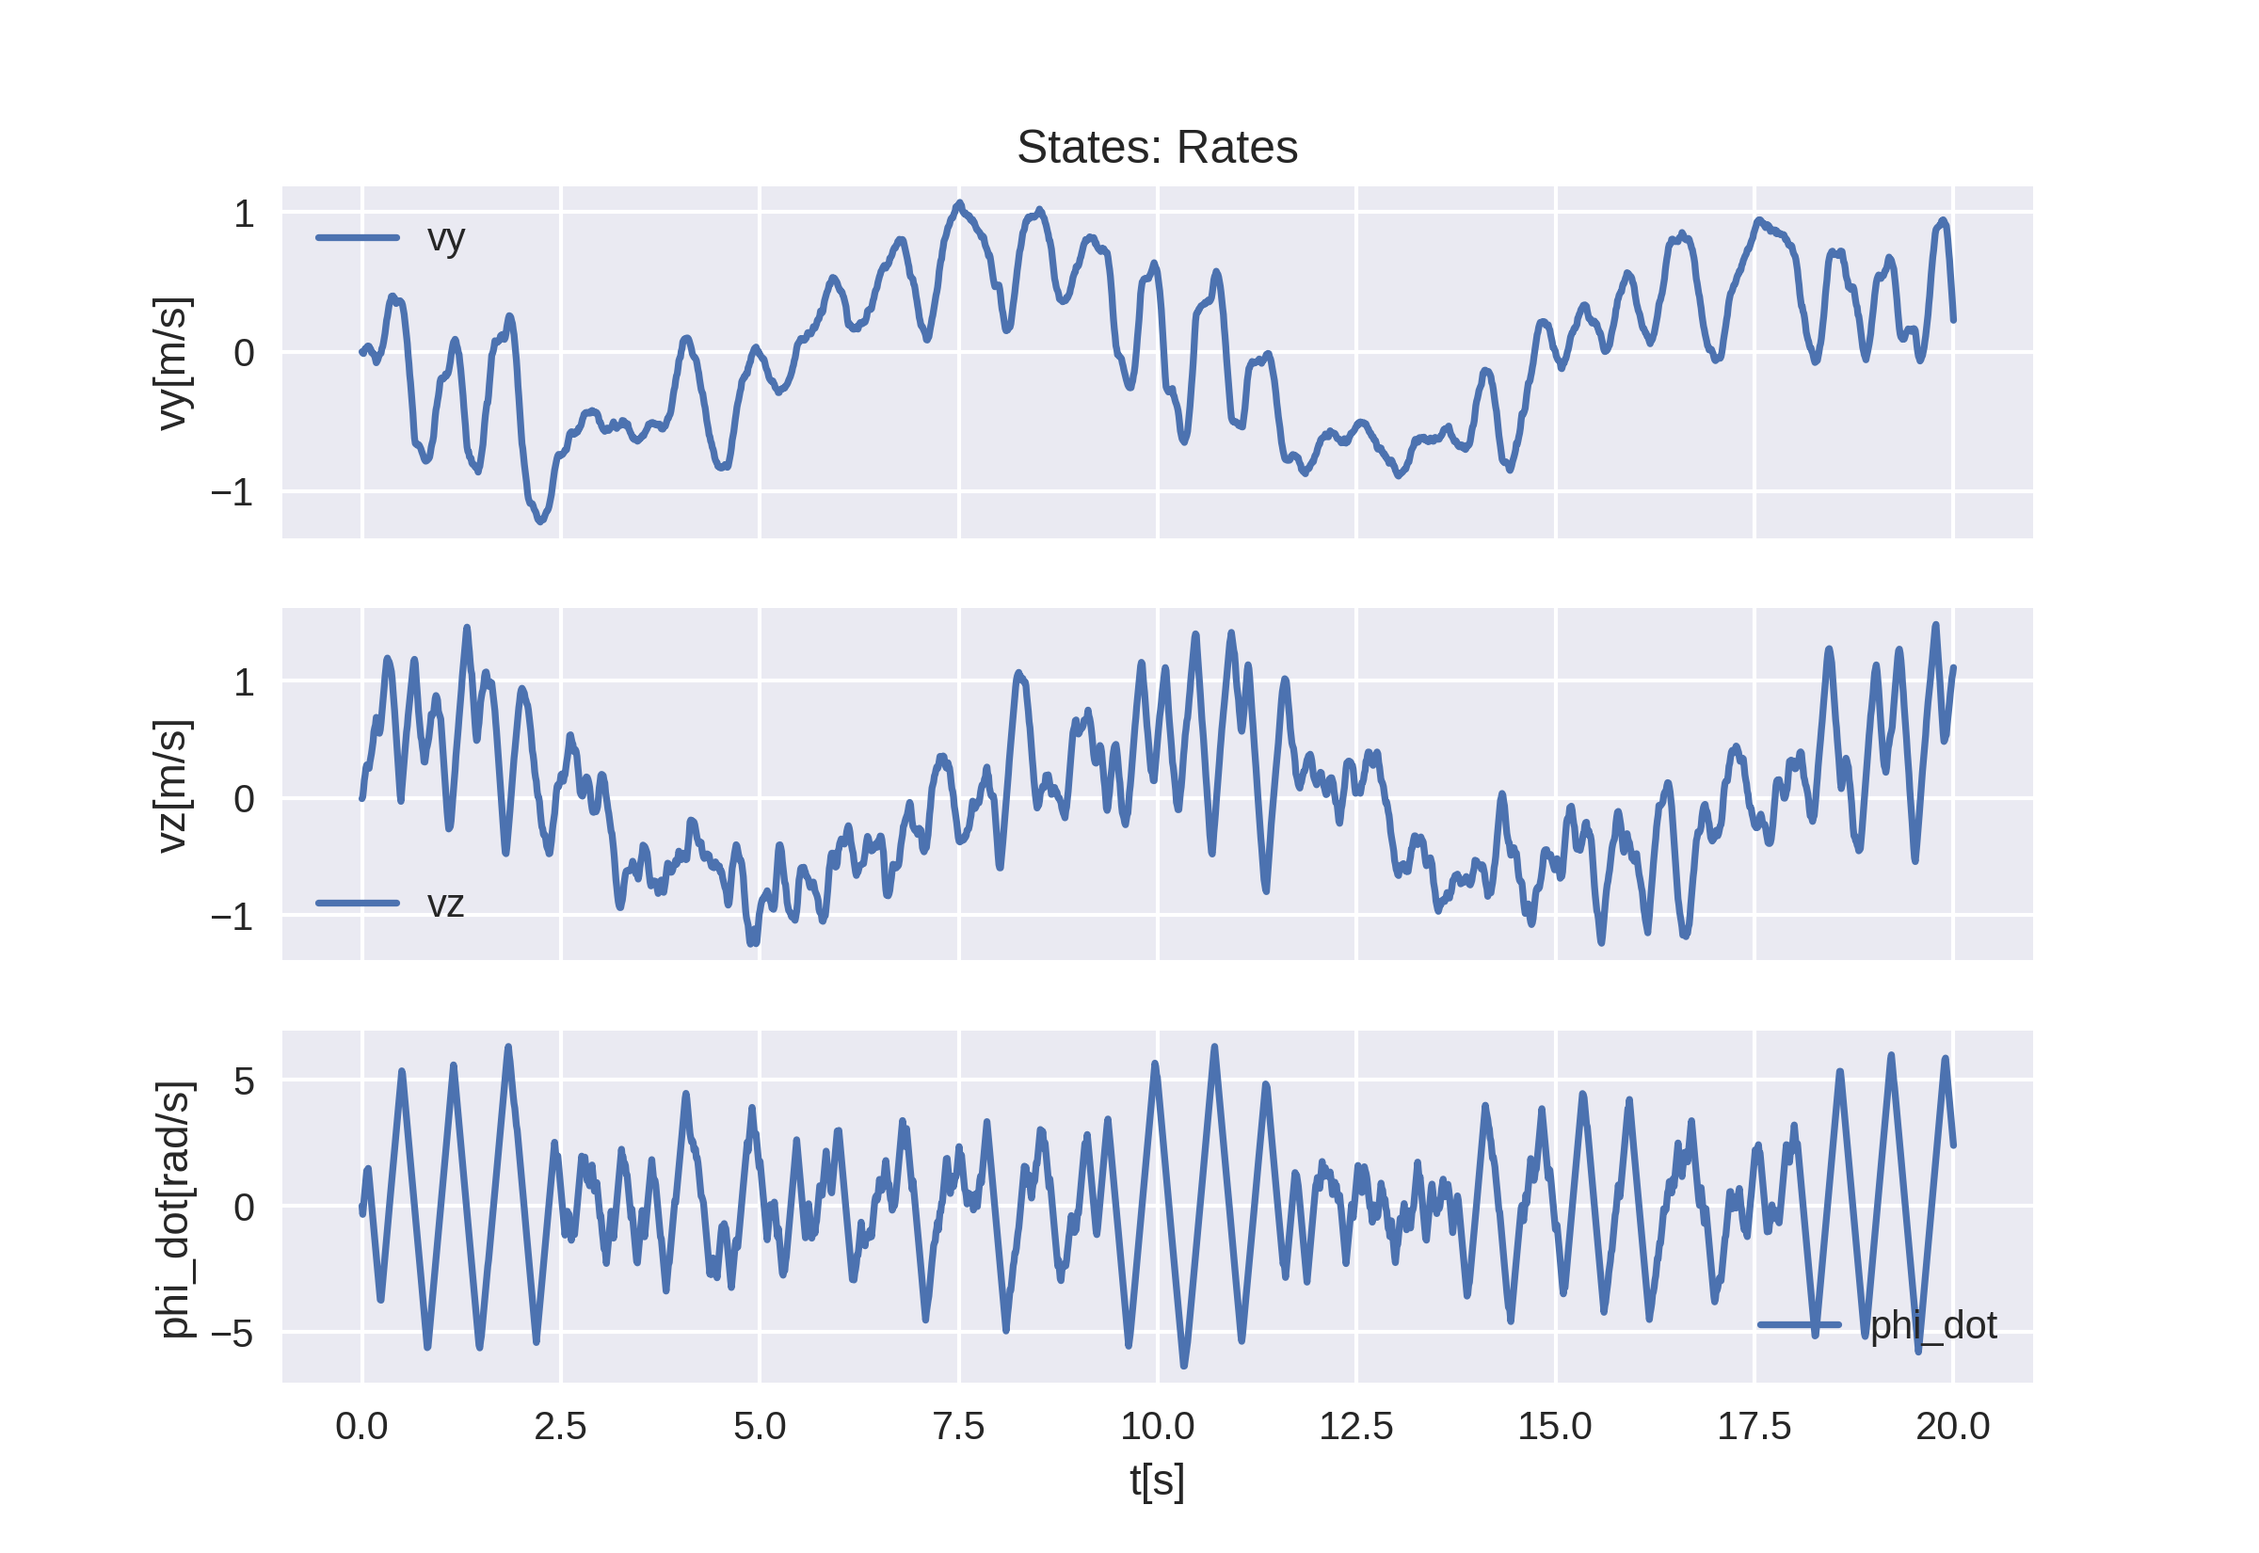
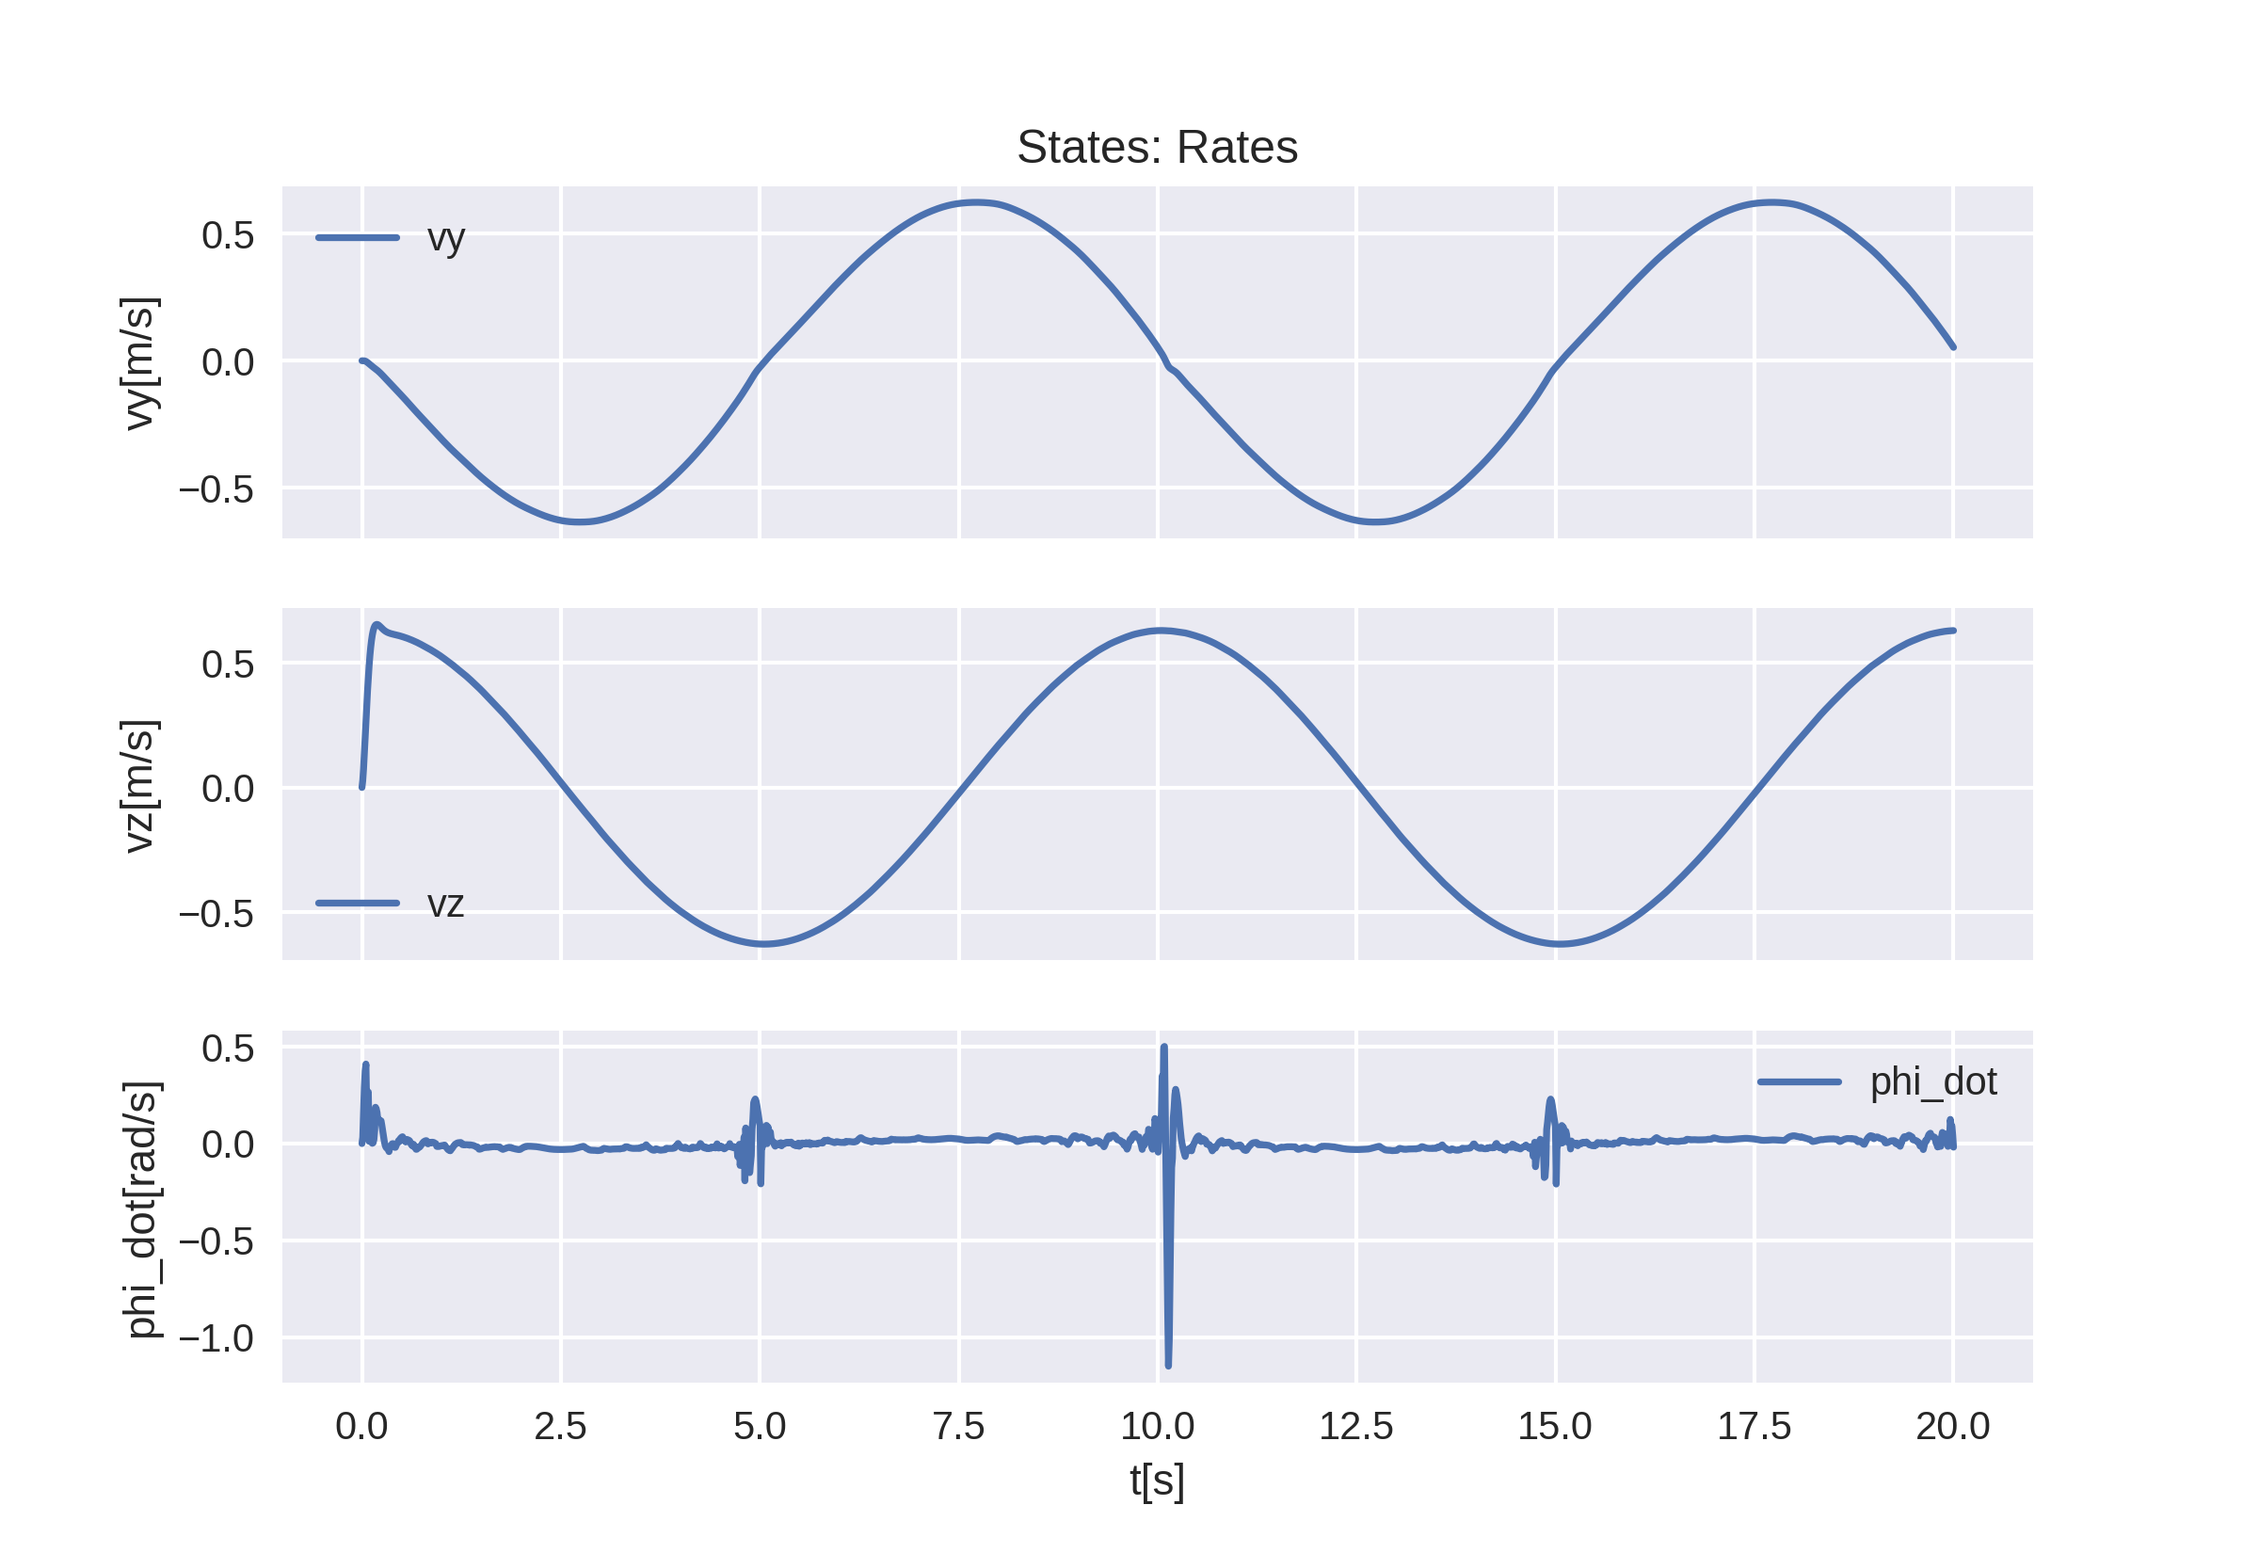
planar_mpc with updated weights and constraints and noise measurement

diff --git a/planar_mpc/c_generated_code/Planar_drone_model/Planar_drone_expl_vde_forw.c b/planar_mpc/c_generated_code/Planar_drone_model/Planar_drone_expl_vde_forw.c
@@ -141,8 +141,8 @@ static int casadi_f0(const casadi_real** arg, casadi_real** res, casadi_int* iw,
   if (res[0]) res[0][2] = w0;
   /* #6: @0 = input[3][0] */
   w0 = arg[3] ? arg[3][0] : 0;
-  /* #7: @1 = 0.027 */
-  w1 = 2.7000000000000000e-02;
+  /* #7: @1 = 0.0135 */
+  w1 = 1.3500000000000000e-02;
   /* #8: @1 = (@0/@1) */
   w1  = (w0/w1);
   /* #9: @2 = input[0][2] */
@@ -157,8 +157,8 @@ static int casadi_f0(const casadi_real** arg, casadi_real** res, casadi_int* iw,
   if (res[0]) res[0][3] = w4;
   /* #14: @4 = -9.81 */
   w4 = -9.8100000000000005e+00;
-  /* #15: @5 = 0.027 */
-  w5 = 2.7000000000000000e-02;
+  /* #15: @5 = 0.0135 */
+  w5 = 1.3500000000000000e-02;
   /* #16: @0 = (@0/@5) */
   w0 /= w5;
   /* #17: @5 = cos(@2) */
@@ -357,8 +357,8 @@ static int casadi_f0(const casadi_real** arg, casadi_real** res, casadi_int* iw,
   /* #102: @19 = 00 */
   /* #103: @20 = 00 */
   /* #104: @21 = 00 */
-  /* #105: @14 = 37.037 */
-  w14 = 3.7037037037037038e+01;
+  /* #105: @14 = 74.0741 */
+  w14 = 7.4074074074074076e+01;
   /* #106: @22 = ones(2x1) */
   casadi_fill(w22, 2, 1.);
   /* #107: {@4, @15} = vertsplit(@22) */
@@ -370,8 +370,8 @@ static int casadi_f0(const casadi_real** arg, casadi_real** res, casadi_int* iw,
   w3 *= w14;
   /* #110: @3 = (-@3) */
   w3 = (- w3 );
-  /* #111: @14 = 37.037 */
-  w14 = 3.7037037037037038e+01;
+  /* #111: @14 = 74.0741 */
+  w14 = 7.4074074074074076e+01;
   /* #112: @14 = (@14*@4) */
   w14 *= w4;
   /* #113: @5 = (@5*@14) */

diff --git a/planar_mpc/c_generated_code/Planar_drone_model/Planar_drone_impl_dae_fun_jac_x_xdot_u_z.c b/planar_mpc/c_generated_code/Planar_drone_model/Planar_drone_impl_dae_fun_jac_x_xdot_u_z.c
@@ -138,8 +138,8 @@ static int casadi_f0(const casadi_real** arg, casadi_real** res, casadi_int* iw,
   w2 = arg[0] ? arg[0][5] : 0;
   /* #10: @3 = input[2][0] */
   w3 = arg[2] ? arg[2][0] : 0;
-  /* #11: @4 = 0.027 */
-  w4 = 2.7000000000000000e-02;
+  /* #11: @4 = 0.0135 */
+  w4 = 1.3500000000000000e-02;
   /* #12: @4 = (@3/@4) */
   w4  = (w3/w4);
   /* #13: @5 = input[0][2] */
@@ -152,8 +152,8 @@ static int casadi_f0(const casadi_real** arg, casadi_real** res, casadi_int* iw,
   w8 = (- w8 );
   /* #17: @9 = -9.81 */
   w9 = -9.8100000000000005e+00;
-  /* #18: @10 = 0.027 */
-  w10 = 2.7000000000000000e-02;
+  /* #18: @10 = 0.0135 */
+  w10 = 1.3500000000000000e-02;
   /* #19: @3 = (@3/@10) */
   w3 /= w10;
   /* #20: @10 = cos(@5) */
@@ -238,8 +238,8 @@ static int casadi_f0(const casadi_real** arg, casadi_real** res, casadi_int* iw,
   /* #53: @15 = 00 */
   /* #54: @19 = 00 */
   /* #55: @20 = 00 */
-  /* #56: @1 = 37.037 */
-  w1 = 3.7037037037037038e+01;
+  /* #56: @1 = 74.0741 */
+  w1 = 7.4074074074074076e+01;
   /* #57: @21 = ones(2x1) */
   casadi_fill(w21, 2, 1.);
   /* #58: {@2, @8} = vertsplit(@21) */
@@ -251,8 +251,8 @@ static int casadi_f0(const casadi_real** arg, casadi_real** res, casadi_int* iw,
   w7 *= w1;
   /* #61: @7 = (-@7) */
   w7 = (- w7 );
-  /* #62: @1 = 37.037 */
-  w1 = 3.7037037037037038e+01;
+  /* #62: @1 = 74.0741 */
+  w1 = 7.4074074074074076e+01;
   /* #63: @1 = (@1*@2) */
   w1 *= w2;
   /* #64: @10 = (@10*@1) */

diff --git a/planar_mpc/c_generated_code/Planar_drone_model/Planar_drone_impl_dae_jac_x_xdot_u_z.c b/planar_mpc/c_generated_code/Planar_drone_model/Planar_drone_impl_dae_jac_x_xdot_u_z.c
@@ -121,8 +121,8 @@ static int casadi_f0(const casadi_real** arg, casadi_real** res, casadi_int* iw,
   w5 = w1[5];
   /* #3: @6 = input[2][0] */
   w6 = arg[2] ? arg[2][0] : 0;
-  /* #4: @7 = 0.027 */
-  w7 = 2.7000000000000000e-02;
+  /* #4: @7 = 0.0135 */
+  w7 = 1.3500000000000000e-02;
   /* #5: @7 = (@6/@7) */
   w7  = (w6/w7);
   /* #6: @8 = input[0][2] */
@@ -135,8 +135,8 @@ static int casadi_f0(const casadi_real** arg, casadi_real** res, casadi_int* iw,
   w7 *= w9;
   /* #10: @7 = (-@7) */
   w7 = (- w7 );
-  /* #11: @9 = 0.027 */
-  w9 = 2.7000000000000000e-02;
+  /* #11: @9 = 0.0135 */
+  w9 = 1.3500000000000000e-02;
   /* #12: @6 = (@6/@9) */
   w6 /= w9;
   /* #13: @9 = sin(@8) */
@@ -182,8 +182,8 @@ static int casadi_f0(const casadi_real** arg, casadi_real** res, casadi_int* iw,
   /* #32: @16 = 00 */
   /* #33: @3 = sin(@8) */
   w3 = sin( w8 );
-  /* #34: @4 = 37.037 */
-  w4 = 3.7037037037037038e+01;
+  /* #34: @4 = 74.0741 */
+  w4 = 7.4074074074074076e+01;
   /* #35: @17 = ones(2x1) */
   casadi_fill(w17, 2, 1.);
   /* #36: {@5, @7} = vertsplit(@17) */
@@ -197,8 +197,8 @@ static int casadi_f0(const casadi_real** arg, casadi_real** res, casadi_int* iw,
   w3 = (- w3 );
   /* #40: @8 = cos(@8) */
   w8 = cos( w8 );
-  /* #41: @4 = 37.037 */
-  w4 = 3.7037037037037038e+01;
+  /* #41: @4 = 74.0741 */
+  w4 = 7.4074074074074076e+01;
   /* #42: @4 = (@4*@5) */
   w4 *= w5;
   /* #43: @8 = (@8*@4) */

diff --git a/planar_mpc/c_generated_code/Planar_drone_model/Planar_drone_expl_vde_adj.c b/planar_mpc/c_generated_code/Planar_drone_model/Planar_drone_expl_vde_adj.c
@@ -71,8 +71,8 @@ static int casadi_f0(const casadi_real** arg, casadi_real** res, casadi_int* iw,
   w1 = cos( w0 );
   /* #2: @2 = input[2][0] */
   w2 = arg[2] ? arg[2][0] : 0;
-  /* #3: @3 = 0.027 */
-  w3 = 2.7000000000000000e-02;
+  /* #3: @3 = 0.0135 */
+  w3 = 1.3500000000000000e-02;
   /* #4: @3 = (@2/@3) */
   w3  = (w2/w3);
   /* #5: @4 = input[1][0] */
@@ -92,8 +92,8 @@ static int casadi_f0(const casadi_real** arg, casadi_real** res, casadi_int* iw,
   w1 = (- w1 );
   /* #10: @3 = sin(@0) */
   w3 = sin( w0 );
-  /* #11: @11 = 0.027 */
-  w11 = 2.7000000000000000e-02;
+  /* #11: @11 = 0.0135 */
+  w11 = 1.3500000000000000e-02;
   /* #12: @2 = (@2/@11) */
   w2 /= w11;
   /* #13: @2 = (@2*@9) */
@@ -110,16 +110,16 @@ static int casadi_f0(const casadi_real** arg, casadi_real** res, casadi_int* iw,
   if (res[0]) res[0][2] = w6;
   /* #19: output[0][3] = @7 */
   if (res[0]) res[0][3] = w7;
-  /* #20: @7 = 37.037 */
-  w7 = 3.7037037037037038e+01;
+  /* #20: @7 = 74.0741 */
+  w7 = 7.4074074074074076e+01;
   /* #21: @6 = cos(@0) */
   w6 = cos( w0 );
   /* #22: @6 = (@6*@9) */
   w6 *= w9;
   /* #23: @7 = (@7*@6) */
   w7 *= w6;
-  /* #24: @6 = 37.037 */
-  w6 = 3.7037037037037038e+01;
+  /* #24: @6 = 74.0741 */
+  w6 = 7.4074074074074076e+01;
   /* #25: @0 = sin(@0) */
   w0 = sin( w0 );
   /* #26: @0 = (@0*@8) */

diff --git a/planar_mpc/drone_model.py b/planar_mpc/drone_model.py
@@ -11,7 +11,7 @@ def drone_model():
     # Quadrotor intrinsic parameters
 
     # crazyflie 2.0 parameters
-    m = 0.027 # m=27g
+    m = 0.027 / 2 # m=27g
     Ixx = 1.657171e-05
     Iyy = 1.657171e-05
     Izz = 2.9261652e-05
@@ -64,9 +64,9 @@ def drone_model():
 
     # input bounds
     model.throttle_min = 0
-    model.throttle_max = 0.9 * (57e-3 * g) # 90 % of max_thrust (max_thrust = 57g)
+    model.throttle_max = 0.9 * ((57e-3 * g) / 2) # 90 % of max_thrust (max_thrust = 57g)
 
-    model.torque_max = 1 / 4 * model.throttle_max * length 
+    model.torque_max = 1 / 2 * model.throttle_max * length # divided by 2 since we only have 2 propellers in a planar quadrotor
     model.torque_max = 0.1 * model.torque_max # keeping 10% margin for steering torque. This is done because the torque_max 
                                               # is the maximum torque that can be given around any one axis. But, we are going to
                                               # limit the throttle greatly.

diff --git a/planar_mpc/main.py b/planar_mpc/main.py
@@ -18,7 +18,7 @@ Ts = Tf / N  # sampling time[s]
 g = 9.81     # m/s^2
 
 # noise bool
-noisy_measurement = True
+noisy_measurement = False
 
 # load model and acados_solver
 model, acados_solver, acados_integrator = acados_settings(Ts, Tf, N)
@@ -88,8 +88,16 @@ for i in range(Nsim):
     # predX[i+1, :] = xcurrent_pred
     simU[i, :] = u0
 
+
+    # add measurement noise
+    if noisy_measurement == True:
+        xcurrent_sim = add_measurement_noise(xcurrent)
+    else:
+        xcurrent_sim = xcurrent
+
+
     # simulate the system
-    acados_integrator.set("x", xcurrent)
+    acados_integrator.set("x", xcurrent_sim)
     acados_integrator.set("u", u0)
     status = acados_integrator.solve()
     if status != 0:
@@ -100,9 +108,7 @@ for i in range(Nsim):
     # get state
     xcurrent = acados_integrator.get("x")
 
-    # add measurement noise
-    if noisy_measurement == True:
-        xcurrent = add_measurement_noise(xcurrent)
+    
 
     # store state
     simX[i+1, :] = xcurrent

diff --git a/planar_mpc/c_generated_code/acados_solver_Planar_drone.c b/planar_mpc/c_generated_code/acados_solver_Planar_drone.c
@@ -471,7 +471,7 @@ int Planar_drone_acados_create(nlp_solver_capsule * capsule)
     yref_0[3] = 0;
     yref_0[4] = 0;
     yref_0[5] = 0;
-    yref_0[6] = 0.26487;
+    yref_0[6] = 0.132435;
     yref_0[7] = 0;
     ocp_nlp_cost_model_set(nlp_config, nlp_dims, nlp_in, 0, "yref", yref_0);
 
@@ -552,7 +552,7 @@ int Planar_drone_acados_create(nlp_solver_capsule * capsule)
     yref[3] = 0;
     yref[4] = 0;
     yref[5] = 0;
-    yref[6] = 0.26487;
+    yref[6] = 0.132435;
     yref[7] = 0;
 
     for (int i = 1; i < N; i++)
@@ -876,7 +876,7 @@ int Planar_drone_acados_create(nlp_solver_capsule * capsule)
     double ubu[NBU];
     
     lbu[0] = 0;
-    ubu[0] = 0.5032530000000001;
+    ubu[0] = 0.25162650000000003;
     lbu[1] = -0.0005787409500000001;
     ubu[1] = 0.0005787409500000001;
 

diff --git a/planar_mpc/c_generated_code/Planar_drone_model/Planar_drone_expl_ode_fun.c b/planar_mpc/c_generated_code/Planar_drone_model/Planar_drone_expl_ode_fun.c
@@ -65,8 +65,8 @@ static int casadi_f0(const casadi_real** arg, casadi_real** res, casadi_int* iw,
   if (res[0]) res[0][2] = w0;
   /* #6: @0 = input[1][0] */
   w0 = arg[1] ? arg[1][0] : 0;
-  /* #7: @1 = 0.027 */
-  w1 = 2.7000000000000000e-02;
+  /* #7: @1 = 0.0135 */
+  w1 = 1.3500000000000000e-02;
   /* #8: @1 = (@0/@1) */
   w1  = (w0/w1);
   /* #9: @2 = input[0][2] */
@@ -81,8 +81,8 @@ static int casadi_f0(const casadi_real** arg, casadi_real** res, casadi_int* iw,
   if (res[0]) res[0][3] = w1;
   /* #14: @1 = -9.81 */
   w1 = -9.8100000000000005e+00;
-  /* #15: @3 = 0.027 */
-  w3 = 2.7000000000000000e-02;
+  /* #15: @3 = 0.0135 */
+  w3 = 1.3500000000000000e-02;
   /* #16: @0 = (@0/@3) */
   w0 /= w3;
   /* #17: @2 = cos(@2) */

diff --git a/planar_mpc/c_generated_code/Planar_drone_model/Planar_drone_impl_dae_fun_jac_x_xdot_z.c b/planar_mpc/c_generated_code/Planar_drone_model/Planar_drone_impl_dae_fun_jac_x_xdot_z.c
@@ -134,8 +134,8 @@ static int casadi_f0(const casadi_real** arg, casadi_real** res, casadi_int* iw,
   w2 = arg[0] ? arg[0][5] : 0;
   /* #10: @3 = input[2][0] */
   w3 = arg[2] ? arg[2][0] : 0;
-  /* #11: @4 = 0.027 */
-  w4 = 2.7000000000000000e-02;
+  /* #11: @4 = 0.0135 */
+  w4 = 1.3500000000000000e-02;
   /* #12: @4 = (@3/@4) */
   w4  = (w3/w4);
   /* #13: @5 = input[0][2] */
@@ -148,8 +148,8 @@ static int casadi_f0(const casadi_real** arg, casadi_real** res, casadi_int* iw,
   w7 = (- w7 );
   /* #17: @8 = -9.81 */
   w8 = -9.8100000000000005e+00;
-  /* #18: @9 = 0.027 */
-  w9 = 2.7000000000000000e-02;
+  /* #18: @9 = 0.0135 */
+  w9 = 1.3500000000000000e-02;
   /* #19: @3 = (@3/@9) */
   w3 /= w9;
   /* #20: @9 = cos(@5) */

diff --git a/planar_mpc/c_generated_code/Planar_drone_model/Planar_drone_impl_dae_fun.c b/planar_mpc/c_generated_code/Planar_drone_model/Planar_drone_impl_dae_fun.c
@@ -94,8 +94,8 @@ static int casadi_f0(const casadi_real** arg, casadi_real** res, casadi_int* iw,
   w2 = arg[0] ? arg[0][5] : 0;
   /* #10: @3 = input[2][0] */
   w3 = arg[2] ? arg[2][0] : 0;
-  /* #11: @4 = 0.027 */
-  w4 = 2.7000000000000000e-02;
+  /* #11: @4 = 0.0135 */
+  w4 = 1.3500000000000000e-02;
   /* #12: @4 = (@3/@4) */
   w4  = (w3/w4);
   /* #13: @5 = input[0][2] */
@@ -108,8 +108,8 @@ static int casadi_f0(const casadi_real** arg, casadi_real** res, casadi_int* iw,
   w4 = (- w4 );
   /* #17: @7 = -9.81 */
   w7 = -9.8100000000000005e+00;
-  /* #18: @8 = 0.027 */
-  w8 = 2.7000000000000000e-02;
+  /* #18: @8 = 0.0135 */
+  w8 = 1.3500000000000000e-02;
   /* #19: @3 = (@3/@8) */
   w3 /= w8;
   /* #20: @5 = cos(@5) */

diff --git a/planar_mpc/tut_live_plot.py b/planar_mpc/tut_live_plot.py
@@ -1,11 +1,12 @@
 import random
+import numpy as np
 from itertools import count
 import pandas as pd
 import matplotlib.pyplot as plt
 from matplotlib.animation import FuncAnimation
 
 plt.style.use('fivethirtyeight')
-
+'''
 x_vals = [0, 1, 2, 3, 4, 5]
 y_vals = [0, 1, 3, 2, 3, 5]
 
@@ -22,4 +23,13 @@ def animate(i):
 ani = FuncAnimation(plt.gcf(), animate, interval=1000)
 
 plt.tight_layout()
+plt.show()
+'''
+
+t = np.linspace(0,2*np.pi) 
+a = 30 ; b = 15 
+x = (a*np.cos(t) * np.cos(np.pi /4))  + 5
+y = (b*np.sin(t)  * np.sin(np.pi /4))  + 4
+plt.plot(x,y)
+plt.plot(5,4,'r.')
 plt.show()

diff --git a/planar_mpc/utils.py b/planar_mpc/utils.py
@@ -41,6 +41,8 @@ def R2D(rad):
 def add_measurement_noise(xcurrent):
     # Apply noise to inputs (uniformly distributed noise with standard deviation proportional to input magnitude)
 
+    np.random.seed(11)
+
     y       = xcurrent[0]
     z       = xcurrent[1]
     phi     = xcurrent[2]
